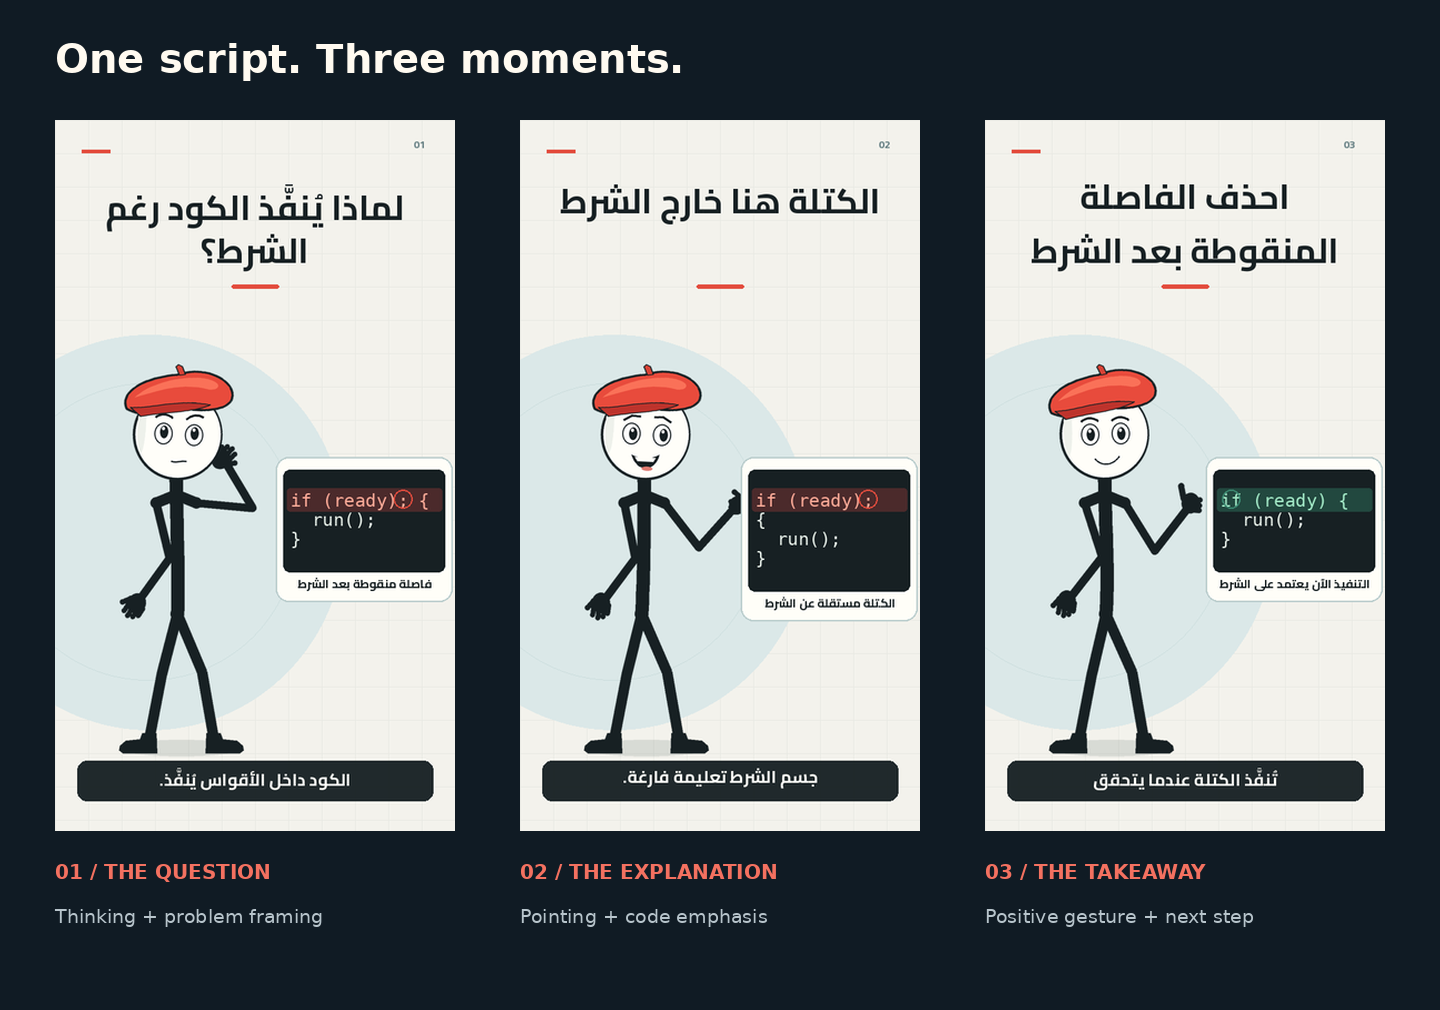
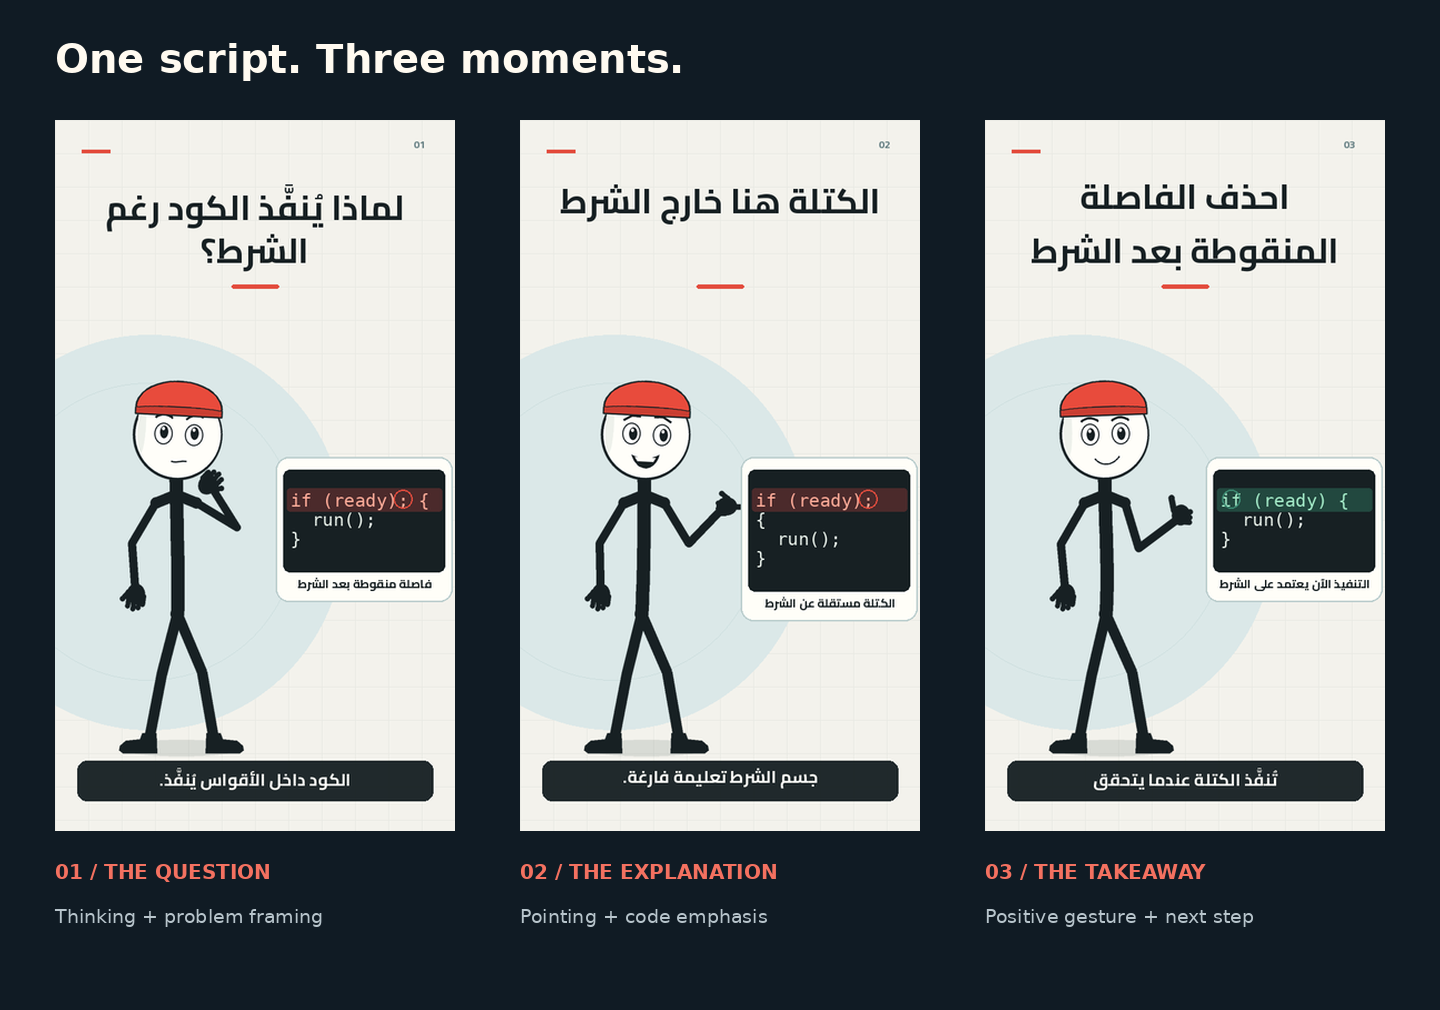
fix: simplify cap and mouth and correct outward arm bends

diff --git a/voice2reel/presenter_render.py b/voice2reel/presenter_render.py
@@ -16,7 +16,7 @@ from PIL import Image, ImageDraw, ImageFont, features
 from voice2reel.motion_preview import ease, joint, mix
 from voice2reel.render import find_font, validate_timeline, wrap_text
 
-VERSION = "presenter-3-proportioned-rig"
+VERSION = "presenter-4-clean-face-arms"
 PROFILES = {"fast": (540, 24, "ultrafast"), "quality": (720, 30, "veryfast")}
 INK, RED = "#172023", "#e34d3e"
 
@@ -89,7 +89,6 @@ def face(emotion, mouth, blink, look=0, tilt=0):
     # Closed mouth during pauses, even when the expression is surprised.
     if mouth == 3:
         ellipse((105, 175, 128, 198), INK)
-        ellipse((110, 191, 125, 197), "#df7b72")
     elif mouth == 2:
         path(
             curve([(91, 175), (106, 182), (126, 182), (140, 173)])
@@ -97,7 +96,6 @@ def face(emotion, mouth, blink, look=0, tilt=0):
             INK,
         )
         path([(97, 179), (134, 179), (130, 186), (102, 186)], "#fffef9")
-        ellipse((110, 195, 129, 202), "#df7b72")
     elif mouth == 1:
         ellipse((101, 179, 132, 193), INK)
     elif emotion == "concerned":
@@ -108,20 +106,14 @@ def face(emotion, mouth, blink, look=0, tilt=0):
         line(curve([(106, 187), (114, 184), (122, 184), (130, 187)]), 2.7)
     else:
         line(curve([(96, 181), (108, 197), (129, 193), (139, 178)]), 2.7)
-    # Compact illustrated beret: a simple readable silhouette rather than a long pointed cap.
-    hat = curve([(22, 98), (6, 65), (58, 39), (107, 33)])
-    hat += curve([(107, 33), (153, 14), (206, 34), (207, 65)])[1:]
-    hat += curve([(207, 65), (207, 88), (169, 96), (133, 93)])[1:]
-    hat += curve([(133, 93), (92, 92), (56, 117), (22, 98)])[1:]
-    path(hat, "#e84b3c", INK, 4)
-    highlight = curve([(35, 77), (59, 50), (124, 31), (163, 38)])
-    highlight += curve([(163, 38), (187, 43), (187, 57), (164, 56)])[1:]
-    highlight += curve([(164, 56), (113, 45), (69, 66), (35, 77)])[1:]
-    path(highlight, "#fa7158")
-    brim = curve([(28, 95), (69, 94), (115, 75), (169, 83)])
-    brim += curve([(169, 83), (140, 99), (93, 99), (47, 110)])[1:]
-    path(brim, "#bd332c", INK, 2)
-    path([(112, 34), (105, 19), (109, 15), (116, 18), (122, 32)], "#d74235", INK, 2)
+    # A fitted, symmetric cap with one continuous crown and a clean band.
+    # No floating stem, overlapping brim, or detached decorative shapes.
+    hat = curve([(38, 96), (38, 27), (190, 27), (190, 96)])
+    hat += [(190, 105), (38, 105)]
+    path(hat, "#e84b3c", INK, 3)
+    band = curve([(38, 93), (85, 88), (145, 88), (190, 93)])
+    band += [(190, 105), (38, 105)]
+    path(band, "#c93e32", INK, 2)
     if tilt:
         im = im.rotate(tilt, resample=Image.Resampling.BICUBIC, center=(220, 350))
     return im
@@ -153,12 +145,12 @@ def glove(kind, angle):
 
 
 GESTURES = {
-    "present": ((109, 653), (284, 570), "rest", "open", 0, -75),
-    "point": ((109, 653), (295, 518), "rest", "point", 0, -90),
-    "think": ((109, 653), (228, 456), "rest", "rest", -25, 145),
-    "shrug": ((72, 534), (280, 526), "open", "open", 65, -65),
-    "thumbs_up": ((110, 650), (278, 519), "rest", "thumb", 0, -5),
-    "wave": ((108, 650), (270, 395), "rest", "open", 0, 5),
+    "present": ((109, 641), (278, 574), "rest", "open", 0, -75),
+    "point": ((109, 641), (278, 520), "rest", "point", 0, -90),
+    "think": ((109, 641), (210, 490), "rest", "rest", 0, 145),
+    "shrug": ((90, 620), (270, 550), "open", "open", 65, -65),
+    "thumbs_up": ((109, 641), (265, 535), "rest", "thumb", 0, -5),
+    "wave": ((109, 641), (238, 432), "rest", "open", 0, 5),
 }
 CAMERAS = {"wide": (1.0, 0.0, 0.0), "medium": (1.13, -7.0, -4.0), "close": (1.5, 105.0, 35.0)}
 
@@ -396,7 +388,7 @@ class PresenterRenderer:
                     wrist[0] + amp * math.sin(local * (6.8 if amp == 9 else 2.6)) * u,
                     wrist[1] + 2 * math.sin(local * 2.1) * u,
                 )
-            elbow, end = joint(shoulders[side], wrist, 76, 78, 1 if side else -1)
+            elbow, end = joint(shoulders[side], wrist, 64, 70, 1)
             # Draw the solved bones through the elbow. A cubic shortcut visibly
             # shortened the upper arm and made the limb look like rubber.
             line([shoulders[side], elbow, end], 11)

diff --git a/tests/test_presenter_regressions.py b/tests/test_presenter_regressions.py
@@ -41,6 +41,9 @@ def test_visible_arm_passes_through_solved_elbow(monkeypatch, gesture, local):
     monkeypatch.setattr(renderer, 'rounded_line', line)
     actor.character(4 + local, 1, local)
     assert len(solved) == 2
+    # The relaxed left arm must bend away from the torso, including while
+    # switching poses. The old inward solution made it cross the body.
+    assert solved[0][1][0] < solved[0][0][0]
     for bones in solved:
         pixels = [(round(x * 2), round(y * 2) - 500) for x, y in bones]
         assert pixels in drawn, 'The visible arm must follow both bones through the elbow'
@@ -62,3 +65,11 @@ def test_reviewed_example_code_exhibits_and_fixes_the_explained_bug():
             )
             result = subprocess.run([node, '-e', program], capture_output=True, text=True, check=True)
             assert int(result.stdout) == (int(ready) if i == 2 else 1)
+
+
+@pytest.mark.parametrize("mouth", [0, 1, 2, 3])
+def test_mouth_has_no_red_tongue_dot(mouth):
+    face = renderer.face("happy", mouth, False)
+    pixels = np.asarray(face.crop((180, 340, 290, 420)))
+    red = (pixels[:, :, 0].astype(float) > pixels[:, :, 1] * 1.5) & (pixels[:, :, 0] > 80)
+    assert not np.any(red & (pixels[:, :, 3] > 0))
